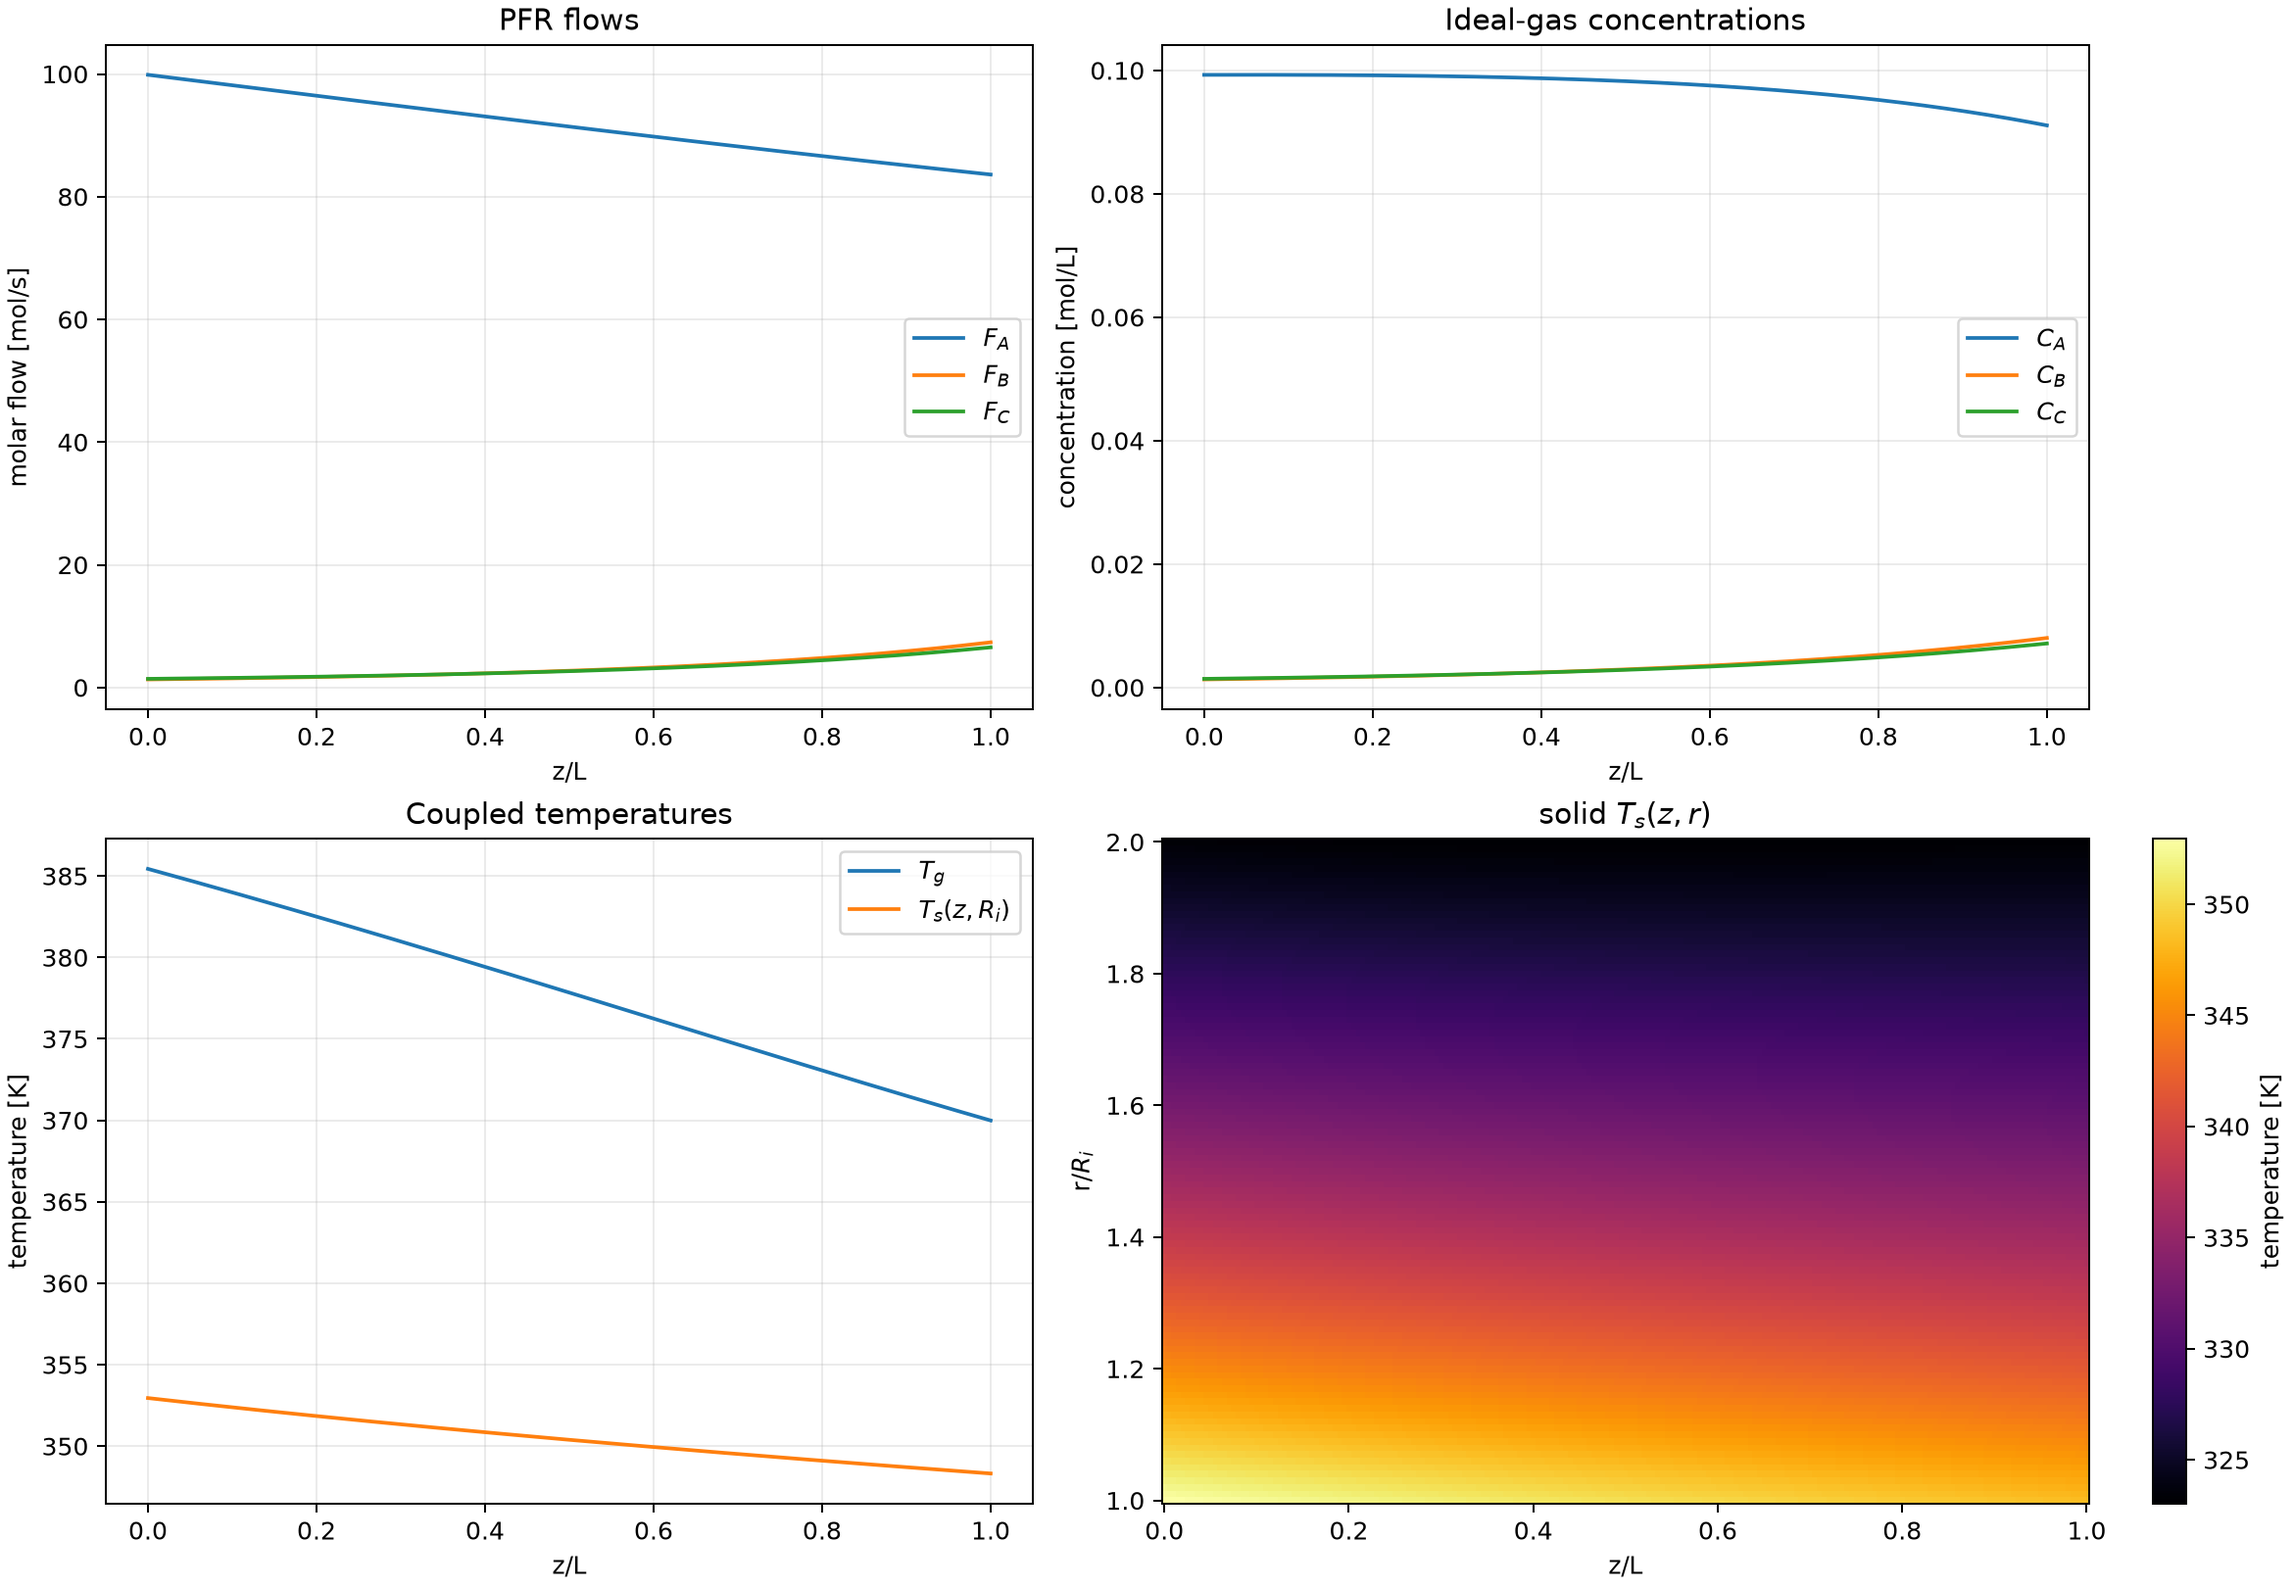
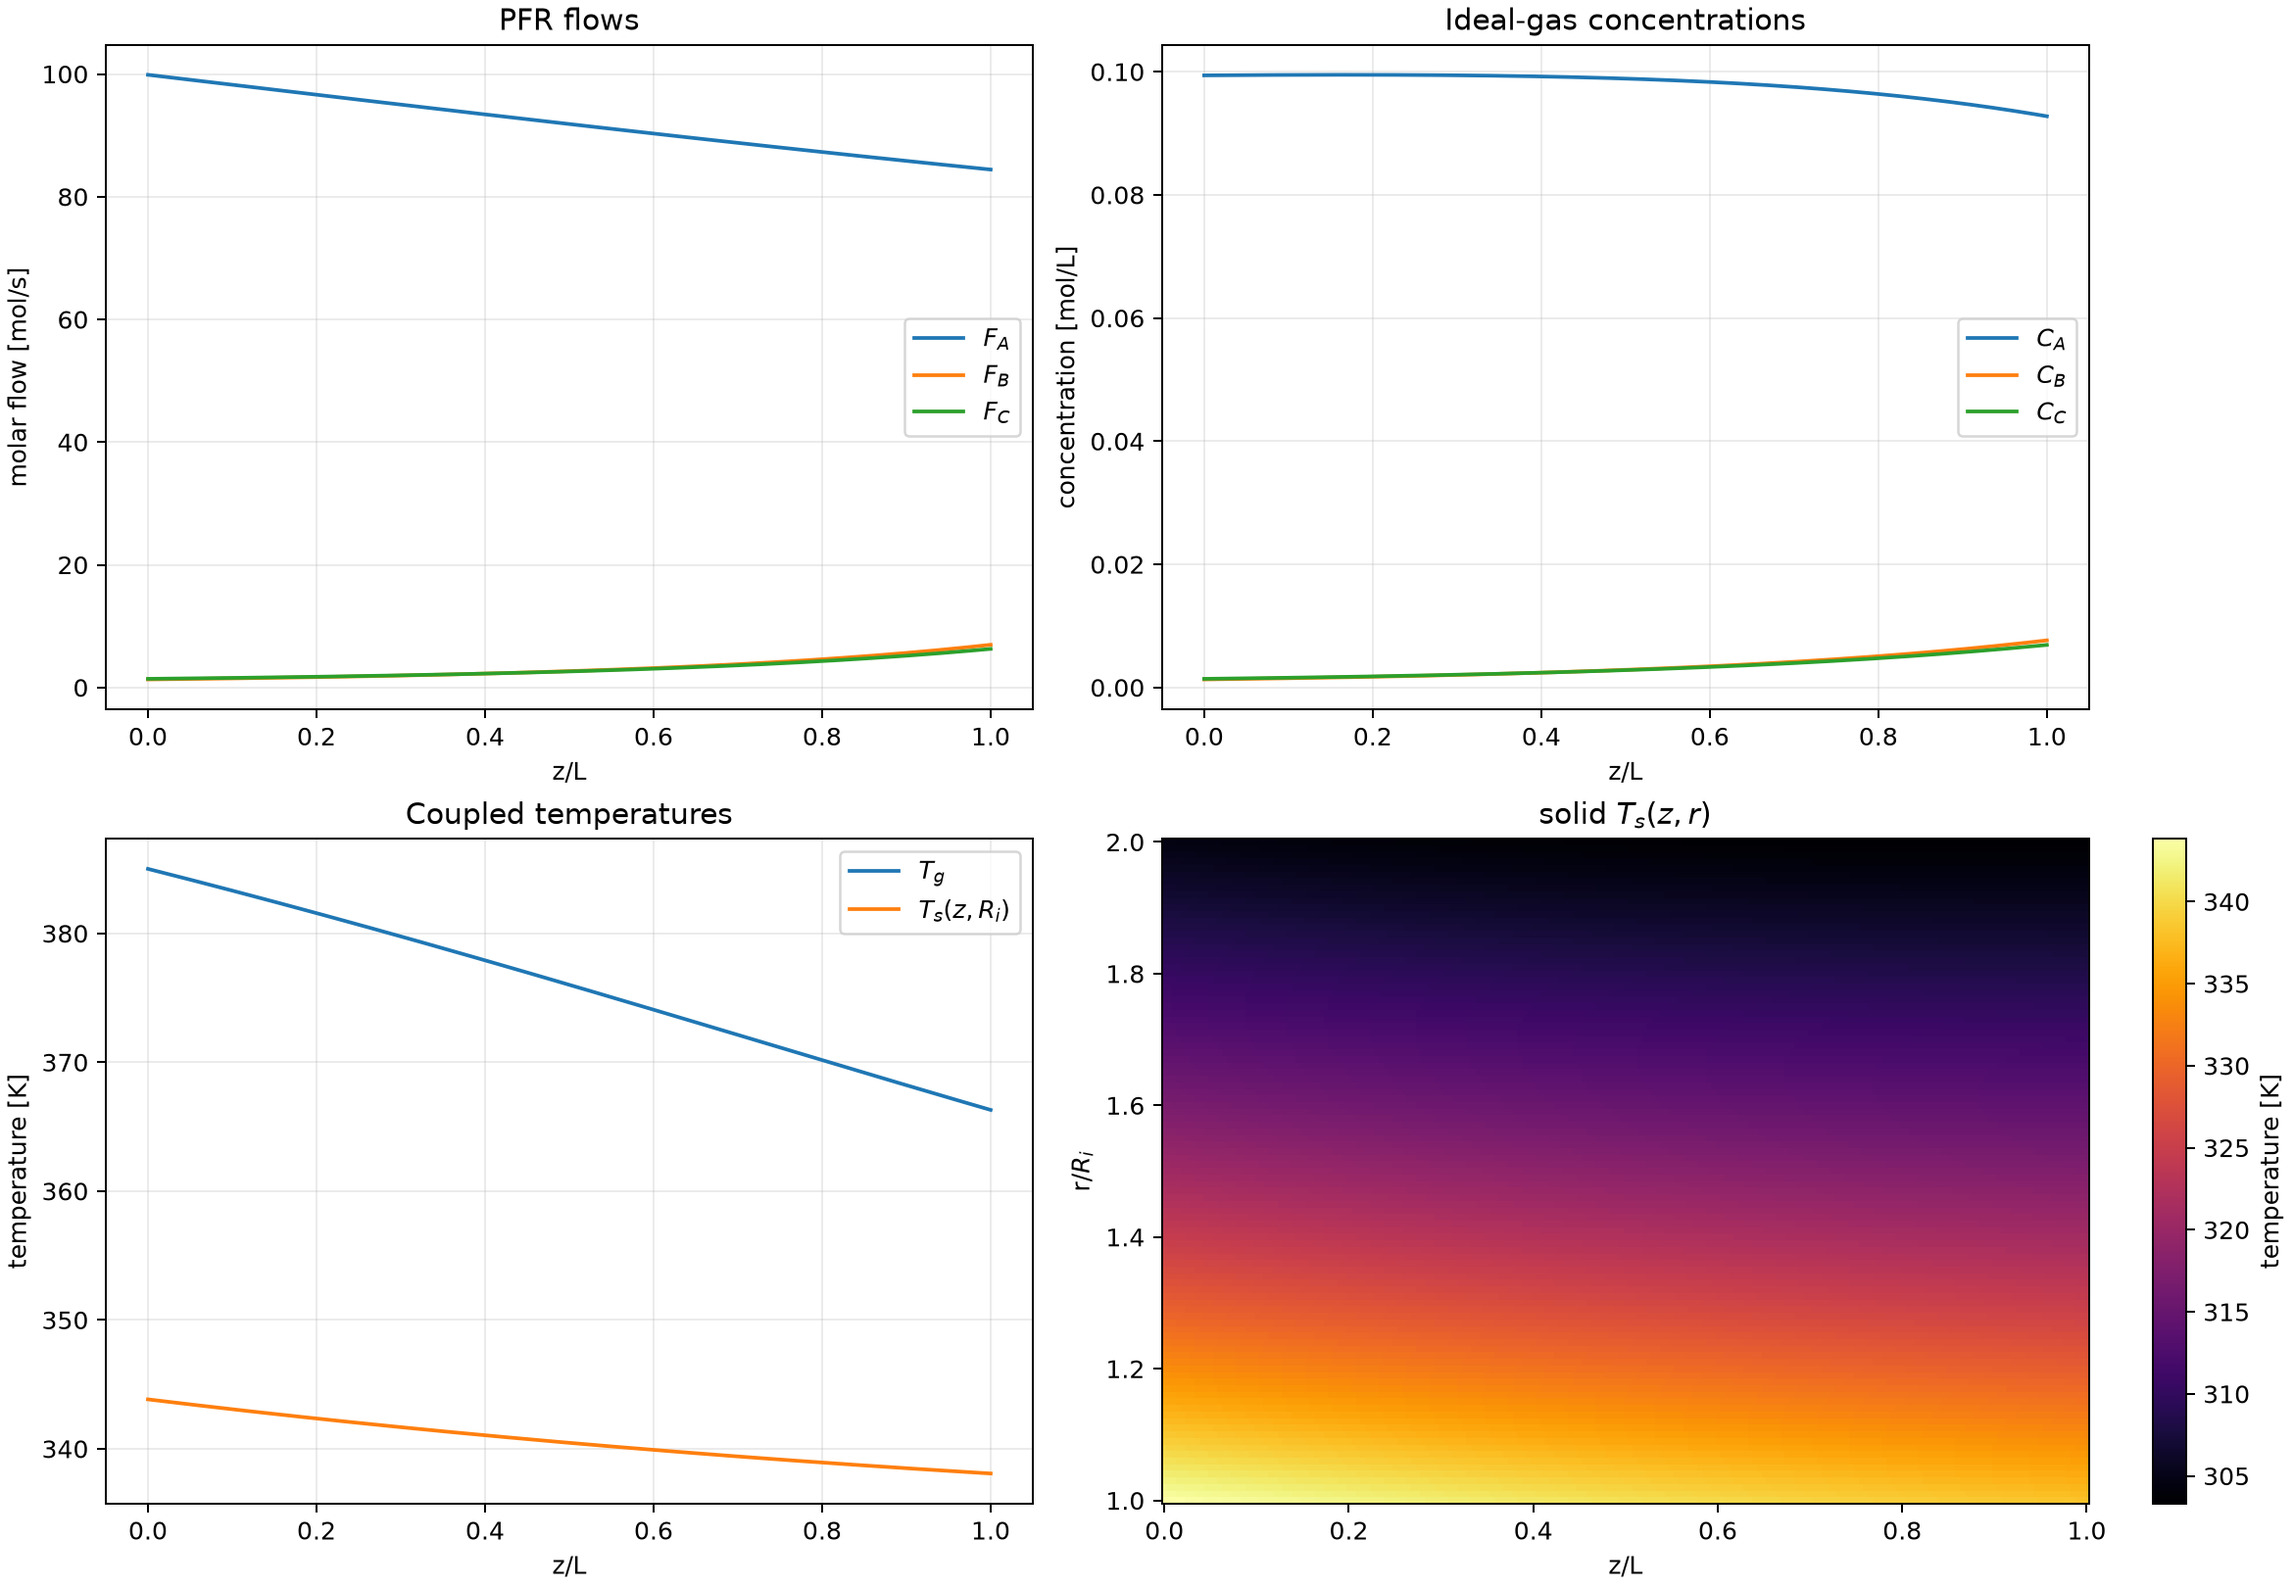
update documentation and NeMo example

diff --git a/nemo-examples/pfr_cylindrical_heat_pinn.py b/nemo-examples/pfr_cylindrical_heat_pinn.py
@@ -62,7 +62,7 @@ class Parameters:
     inlet_flow_a_dimensional: float = 100.0  # mol/s
     inlet_concentration_a_dimensional: float = 0.1  # mol/L
     inlet_temperature_dimensional: float = 393.15  # K
-    outer_temperature_dimensional: float = 323.15  # K
+    outer_temperature_dimensional: float = 303.15  # K
     reference_temperature_dimensional: float = 300.0  # K
 
     # A -> B and 2 A -> 3 C Arrhenius/thermochemical data.

diff --git a/README.md b/README.md
@@ -3,7 +3,7 @@
 ChemOperator is a research library for generating chemical-reactor simulation
 datasets and preparing them for neural-operator models. It provides a common
 record format for reactor simulations, reproducible parameter sampling, lazy
-HDF5 datasets, tensor preprocessing, and adapters for nueral operator workflows
+HDF5 datasets, tensor preprocessing, and adapters for neural-operator workflows.
 
 The repository includes Cantera-based CSTR and plug-flow reactor models,
 a heterogeneous 1D packed-bed model, analytical steady and transient pipe-flow
@@ -23,7 +23,7 @@ solver, and more on the way.
 - Lazy, worker-safe PyTorch dataset access with temporal or spatial windowing
 - Field packing, state/delta targets, and reversible normalization
 - DeepXDE, NeuralOperator, FNO, autoencoder, and POD utilities
-- Direct and POD-DeepONet benchmark helpers
+- Headless direct and POD-DeepONet comparison and artifact helpers
 - PhysicsNeMo PDE definitions for steady and transient Hagen–Poiseuille flow
 - Packaged Cantera example mechanisms
 
@@ -443,11 +443,14 @@ experiment uses Hydra.
 | Script | Workflow |
 | --- | --- |
 | [`scripts/cstr/deeponet.py`](scripts/cstr/deeponet.py) | Direct and POD-DeepONet on non-isothermal CSTR trajectories |
+| [`scripts/cstr/plot_deeponet.py`](scripts/cstr/plot_deeponet.py) | Plot a saved CSTR DeepONet comparison |
 | [`scripts/pfr/chain_deeponet.py`](scripts/pfr/chain_deeponet.py) | Ray/Optuna tuning plus direct and POD-DeepONet on PFR data |
+| [`scripts/pfr/plot_deeponet.py`](scripts/pfr/plot_deeponet.py) | Plot a saved PFR-chain DeepONet comparison |
 | [`scripts/packed_bed_1d/deeponet.py`](scripts/packed_bed_1d/deeponet.py) | Direct and POD-DeepONet on heterogeneous packed-bed data |
-| [`scripts/pipe_flow/deeponet.py`](scripts/pipe_flow/deeponet.py) | Hydra-configured pipe-flow DeepONet and physics-loss study |
-| [`scripts/pipe_flow/transient_fno.py`](scripts/pipe_flow/transient_fno.py) | Neuraloperator FNO tuning, training, evaluation, checkpointing, and plots |
-| [`scripts/pipe_flow/transient_nemo_fno.py`](scripts/pipe_flow/transient_nemo_fno.py) | PhysicsNeMo transient pipe-flow FNO workflow |
+| [`scripts/packed_bed_1d/plot_deeponet.py`](scripts/packed_bed_1d/plot_deeponet.py) | Plot a saved packed-bed DeepONet comparison |
+| [`scripts/pipe_flow_transient/deeponet.py`](scripts/pipe_flow_transient/deeponet.py) | Hydra-configured pipe-flow DeepONet and physics-loss study |
+| [`scripts/pipe_flow_transient/transient_fno.py`](scripts/pipe_flow_transient/transient_fno.py) | Neuraloperator FNO tuning, training, evaluation, checkpointing, and plots |
+| [`scripts/pipe_flow_transient/transient_nemo_fno.py`](scripts/pipe_flow_transient/transient_nemo_fno.py) | PhysicsNeMo transient pipe-flow FNO workflow |
 | [`scripts/q2d/fno.py`](scripts/q2d/fno.py) | Quasi-2D FNO training, superresolution, and break-even analysis |
 | [`scripts/diagnostics/processing.py`](scripts/diagnostics/processing.py) | Visual smoke test for preprocessing and inverse reconstruction |
 
@@ -455,16 +458,23 @@ Examples:
 
 ```bash
 uv run python scripts/cstr/deeponet.py
-uv run python scripts/pipe_flow/transient_fno.py
-uv run python scripts/pipe_flow/deeponet.py final.epochs=5
+uv run python scripts/cstr/plot_deeponet.py
+uv run python scripts/pipe_flow_transient/transient_fno.py
+uv run python scripts/pipe_flow_transient/deeponet.py final.epochs=5
 ```
+
+The CSTR, PFR-chain, and packed-bed DeepONet trainers do not import plotting
+code. They write `metrics.json`, long-form `history.csv`, bounded predictions
+in `reconstructions.npz`, and `ipca_pod_matrix.npz`. Run the corresponding
+`plot_deeponet.py` afterward to generate loss and reconstruction figures.
 
 Review each script's data paths, run-mode flags, trajectory limits, and compute
 settings before launching it. The tuning scripts can be long-running and use a
 GPU when PyTorch reports one as available. Examples are grouped by physical
-case, with notebooks and configuration beside their runners. Each runner writes
-to `scripts/<case>/results/<runner>/`; project-level Ray state is written below
-`.ray/`, while tuning results remain inside the runner's output directory.
+case, with notebooks and configuration beside their runners. Training runners
+write to `scripts/<case>/results/<runner>/`; their plotting entrypoints reuse
+that output directory. Project-level Ray state is written below `.ray/`, while
+tuning results remain inside the training runner's output directory.
 
 ## Quasi-2D packed-bed solver
 
